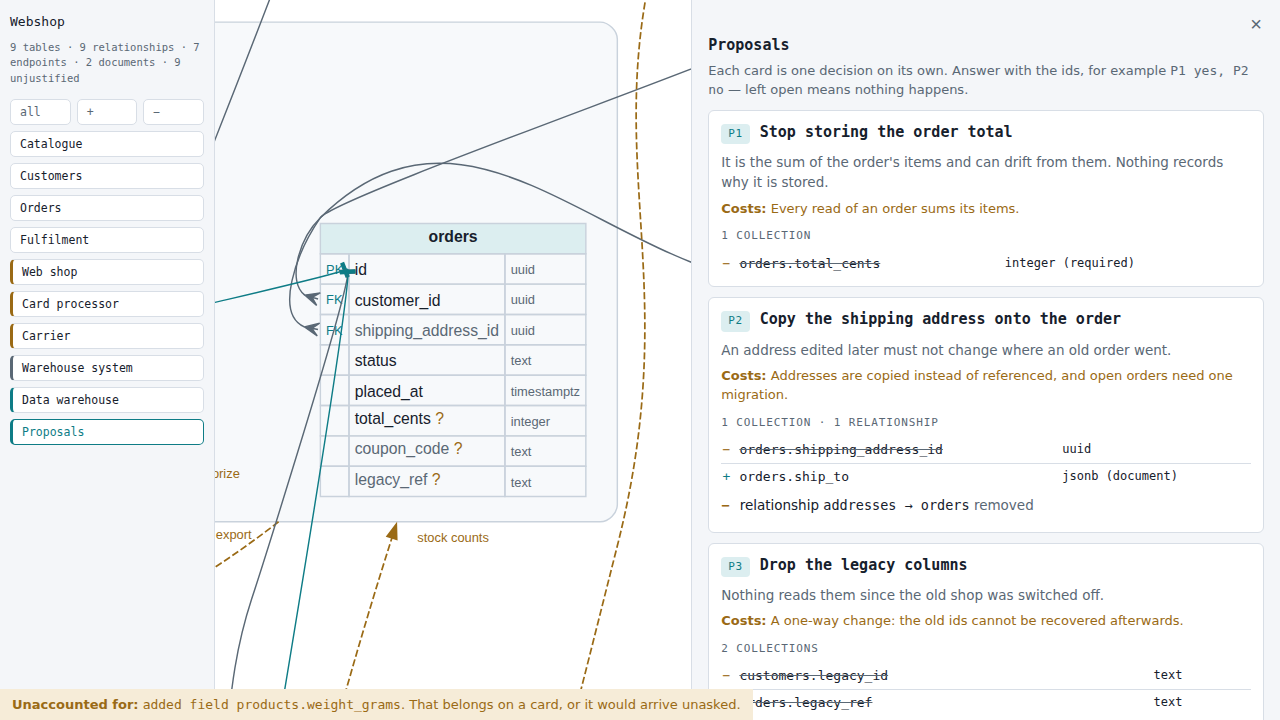
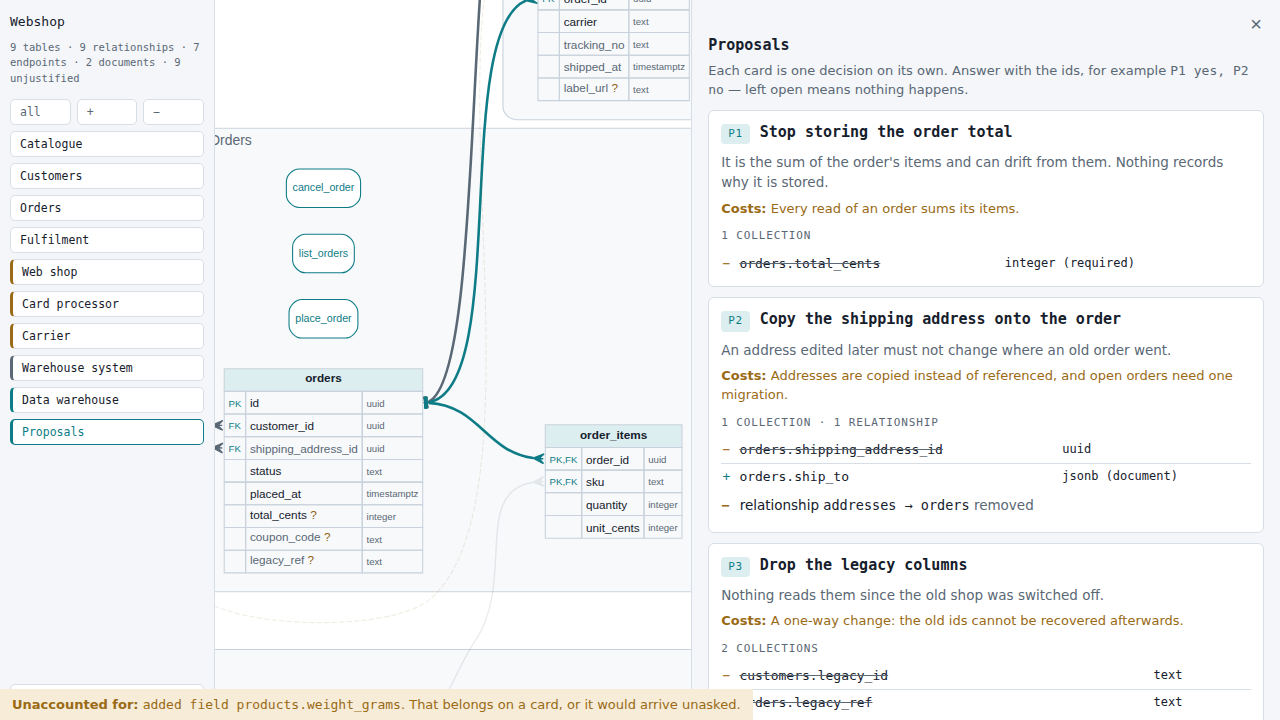
Clearer arrows, edge highlighting and an optional dark theme (#15)
Foreign keys were drawn from the child's left side to the parent's right side, but the layout puts the parent on the left, so every line looped around both tables. They now run parent to child: out of the parent's right edge (via an anchor on the row's last cell, so the line no longer starts on top of the column name) and into the child's left, with the bar at the parent and the crow's foot at the child.

Pointing at a table or a system brightens its own lines and fades the rest; a click keeps them lit while the panel is open. Flows are thinner and softer until asked about.

An optional dark theme: one palette for every diagram colour, re-pointed at theme variables by the stylesheet (so switching is an attribute change, not a re-render), and a theme button in the rail that cycles auto, light and dark and remembers the choice, restored before first paint. A test checks that every colour Graphviz paints has a dark counterpart, and that text meets 4.5:1 in both themes.

Also fixes: a column without a type made Graphviz drop the whole table; a table whose name has a space or a dash did not open its panel.

Checked in Chromium: the 25 earlier interaction checks and 20 new ones (highlighting, odd names, theme cycle, persistence, auto following the system).

Claude-Session: https://claude.ai/code/session_013yHfCc98QsCdNMYCSy1pzv

diff --git a/README.md b/README.md
@@ -6,7 +6,10 @@
 
 **[Live demo](https://drfritzi.github.io/schemacase/)**, rendered from [`example/shop.json`](example/shop.json) and a proposed change to it, [`example/proposed.json`](example/proposed.json). Click a table, use the rail on the left, and open **Proposals**.
 
-[![A webshop's tables, endpoints and systems on one canvas. The orders table is open in the panel: each column shows why it exists and which requirement needs it, and the columns nobody has explained, total_cents, coupon_code and legacy_ref, are marked with a ?](docs/screenshot.png)](https://drfritzi.github.io/schemacase/)
+<a href="https://drfritzi.github.io/schemacase/"><picture>
+  <source media="(prefers-color-scheme: dark)" srcset="docs/screenshot-dark.png">
+  <img alt="A webshop's tables, endpoints and systems on one canvas. The orders table is open in the panel: each column shows why it exists and which requirement needs it, and the columns nobody has explained, total_cents, coupon_code and legacy_ref, are marked with a ?" src="docs/screenshot.png">
+</picture></a>
 
 Turns a **data-model spec** into one self-contained HTML page: a single diagram of the whole
 model — every store with every column, the operations that reach them, the systems around them,
@@ -46,13 +49,19 @@ See [`example/shop.json`](example/shop.json) for a complete spec: nine tables in
 ## The page
 
 The page *is* the diagram: it fills the window, and everything else is chrome. Drag to pan, the
-wheel zooms, and the rail on the left flies to an area or a system. Clicking a store, an
-operation or a system opens it in the panel beside the canvas; a store's relationships are
-clickable there too, so you can walk the model without hunting for the next box.
+wheel zooms (two fingers pinch), and the rail on the left flies to an area or a system. Clicking
+a store, an operation or a system opens it in the panel beside the canvas; a store's
+relationships are clickable there too, so you can walk the model without hunting for the next box.
 
-Relationships are drawn column to column — a foreign key runs from the column that holds it to
-the column it references, with crow's foot at the many end and a bar, or a circle for "may be
-absent", at the one end.
+Relationships are drawn column to column, from the parent to the child, the way the layout runs:
+a line leaves the key it points at on the table's right edge and arrives at the column that holds
+it on the left, with a bar at the parent (or a bar and a circle, for "may be absent") and a crow's
+foot at the child. Point at a table or a system and only its own lines stay bright while the rest
+fade back; click it and they stay lit while its panel is open. The dashed amber lines are flows:
+they annotate the model, so they sit back until you ask about them.
+
+The **theme** button at the bottom of the rail cycles *auto* (follow the system), *light* and
+*dark*, and remembers the choice.
 
 Graphviz does the layout when the page is written, so the output carries a finished picture
 rather than a layout engine: a few hundred KB, and no network at any point.

diff --git a/CHANGELOG.md b/CHANGELOG.md
@@ -6,8 +6,14 @@ All notable changes to this project are documented here. The format follows
 
 ## [Unreleased]
 
+### Added
+
+- An optional dark theme. The **theme** button in the rail cycles auto (follow the system), light and dark, and the choice is remembered. The diagram follows the theme too.
+- Pointing at a table or a system brightens its own lines and fades the rest; clicking keeps them lit while the panel is open.
+
 ### Changed
 
+- Foreign keys are drawn from the parent to the child, out of the parent's right edge and into the child's left, instead of looping round both tables. Flows are thinner and softer, and come forward when you point at what they belong to.
 - Pan and zoom are built in instead of coming from the `svg-pan-zoom` library. Pages are about 40% smaller (70 KB to 42 KB) and the package has one runtime dependency, Graphviz. Wheel, drag, pinch, the zoom buttons and the rail behave as before; the view now also follows the canvas when the detail panel opens or closes.
 - Flows are drawn without taking part in the layout, which is left to the foreign keys.
 - The command line rejects a flag it does not know instead of taking it for a file name.
@@ -15,6 +21,8 @@ All notable changes to this project are documented here. The format follows
 
 ### Fixed
 
+- A table whose name has a space or a dash (any name that is not plain letters and digits) did not open its panel when clicked.
+- A column without a `type` made Graphviz reject the whole table, so it silently vanished from the diagram. `type` is optional in the format; importers always set it, which is why this went unseen.
 - Only the text and borders of a table were clickable; a click in the middle of a cell fell through to the area behind it.
 - A table clicked near the edge is brought into view instead of ending up behind the detail panel.
 - A proposal card listed a removed relationship that belonged to another change. A change that lists columns now owns a relationship through its foreign-key column only.
